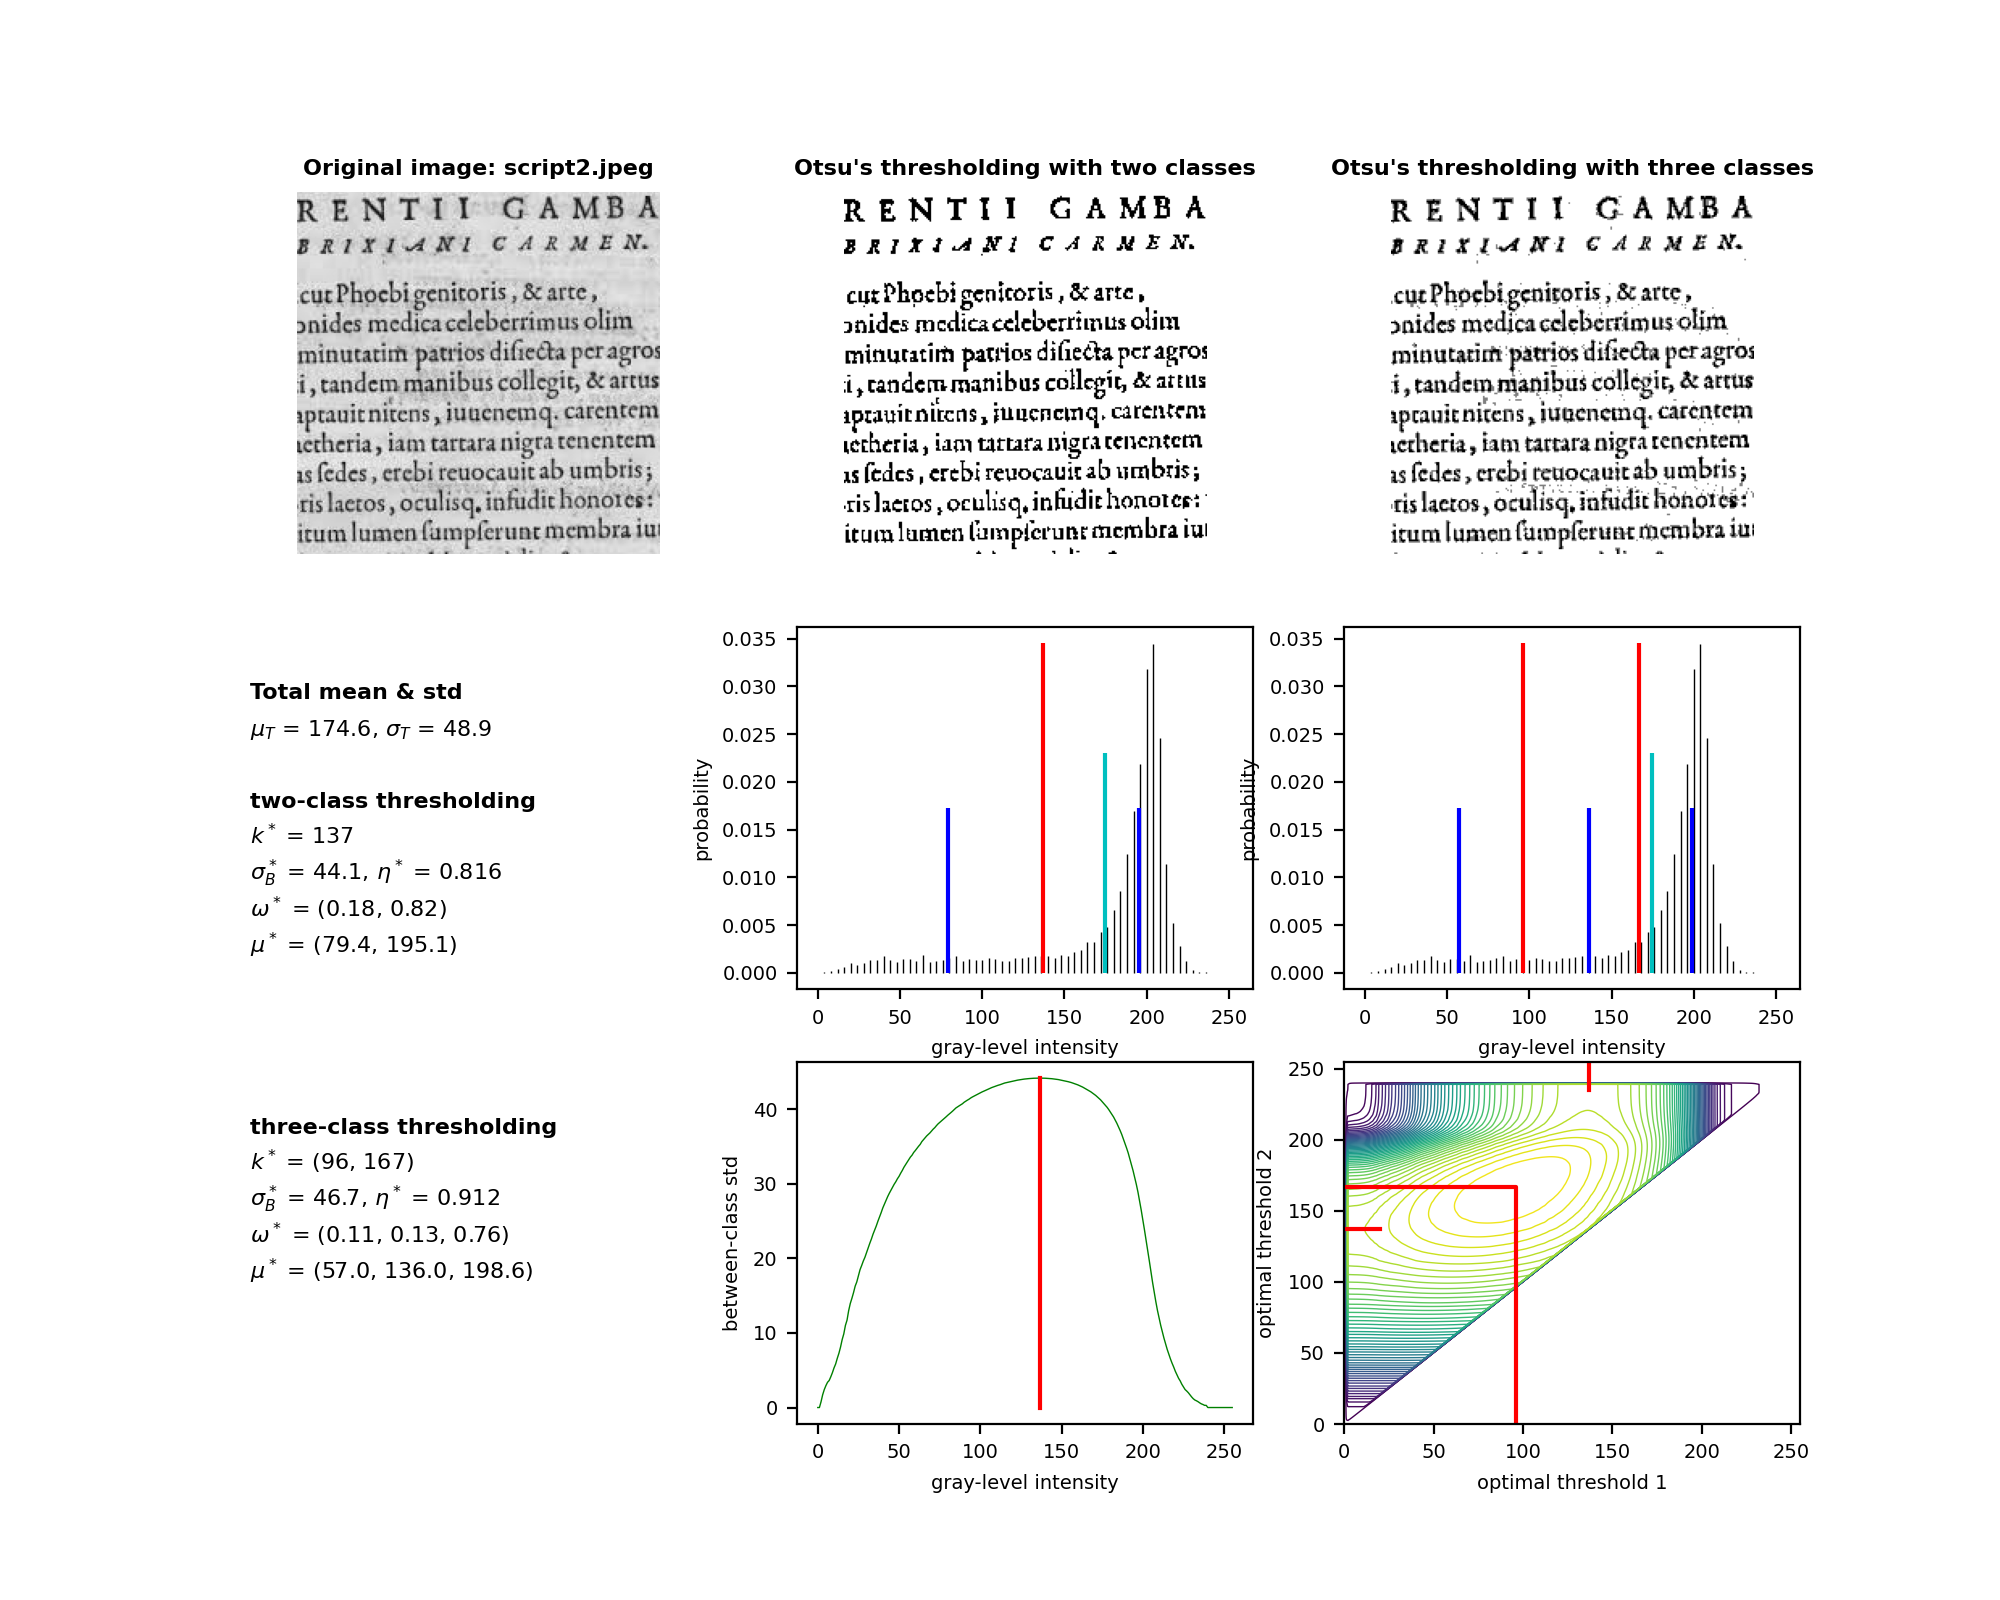
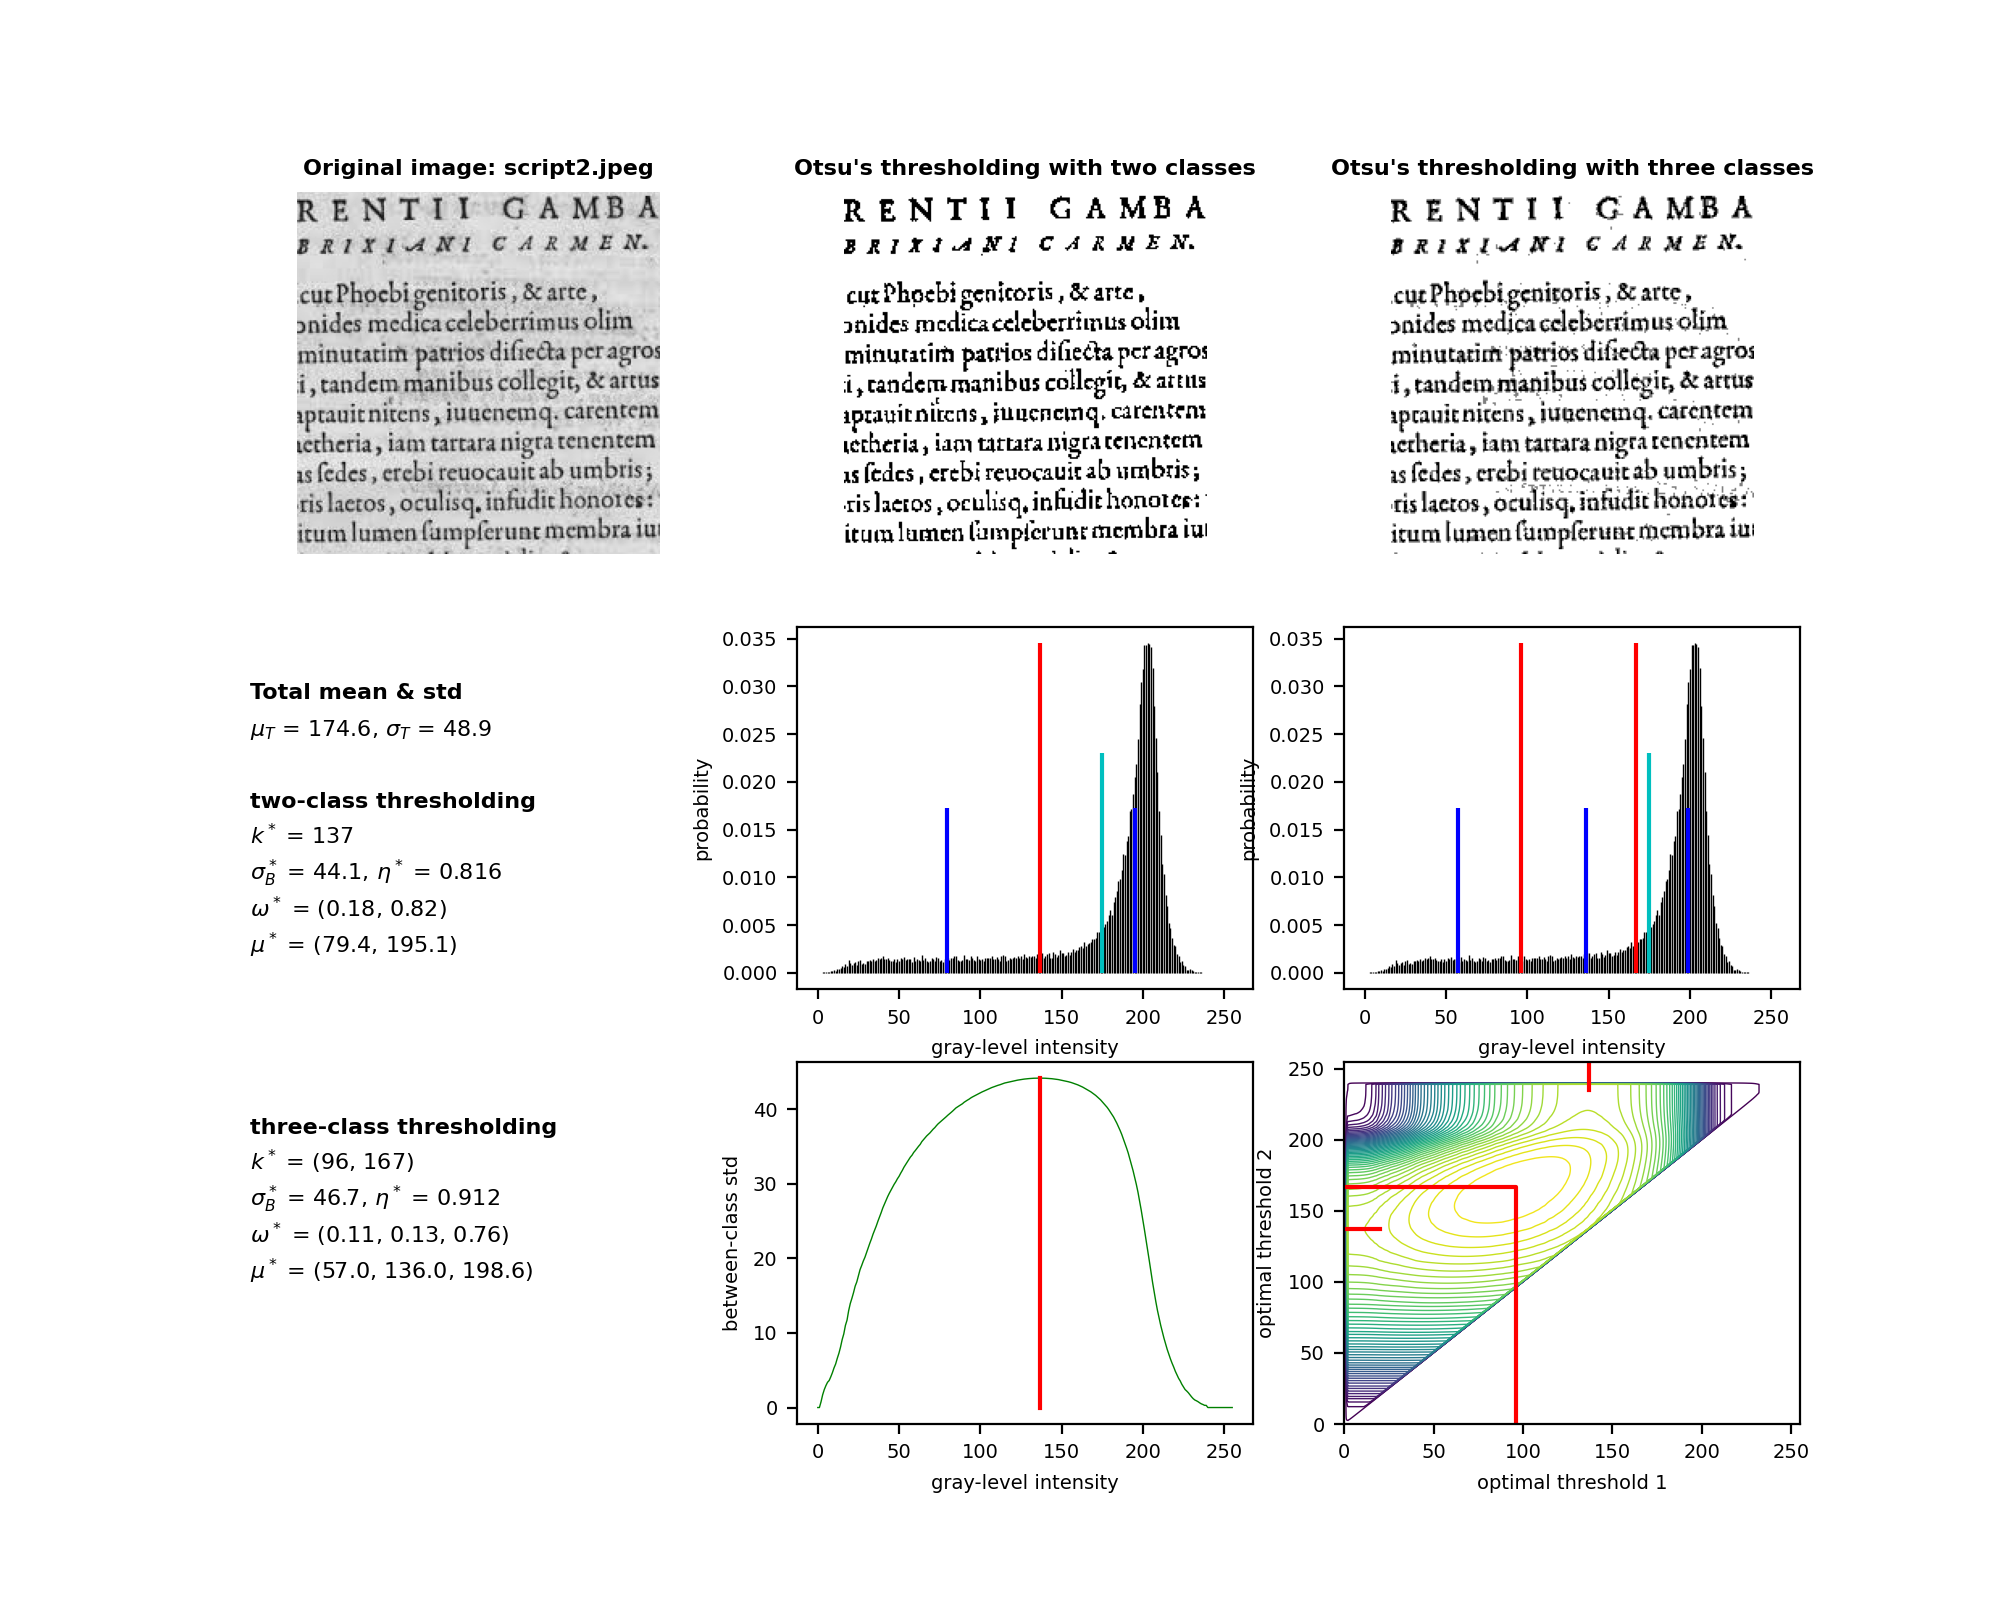
This will be submitted

Changed region(s): [[0.682, 0.4062, 0.899, 0.6562], [0.403, 0.4062, 0.589, 0.6562]]

diff --git a/main.py b/main.py
@@ -12,28 +12,16 @@ IMAX = np.uint8(L - 1) # white
 # image filenames
 filenames = [
     'Fig2.07(a).jpg',
-    'A_1.png',
-    'A_2.png',
-    'mesh.png',
-    'honeywell.png',
-    'stain_1.png',
-    'stain_2.png',
-    'script1.jpeg',
+    # 'script1.jpeg',
     'script2.jpeg',
     'Fig2.08(a).jpg',
     'Fig2.08(b).jpg',
     'Fig2.08(c).jpg',
     'Fig2.19(a).jpg',
-    'Fig2.21(a).jpg',
     'Fig2.22(a).jpg',
     'Fig2.22(b).jpg',
     'Fig2.22(c).jpg',
-    # 'Fig2.24.jpg',
     'Fig5.07(a).jpg',
-    # 'Fig10.1(a).png',
-    # 'Fig10.16(a).png',
-    'Fig10.21(b).png',
-    # 'Fig10.26(a).png',
     'Fig10.36(a).png',
     'Fig10.36(b).png',
     'Fig10.36(c).png',
@@ -41,12 +29,14 @@ filenames = [
     # 'Fig10.37(b).png',
     'Fig10.37(c).png',
     'Fig10.38(a).png',
-    # 'Fig10.39(a).png',
     'Fig10.43(a).png',
     'Fig10.45(a).png',
     'Fig10.49(a).png',
     'Fig10.50(a).png',
 ]
+
+# delta x for pdf
+d = 1
 
 # create a ImgProcLib object
 ipl = ImgProcLib(show=False, verbose=False)
@@ -75,7 +65,7 @@ for filename in filenames:
     ax2.set_axis_off()
 
     # show the histogram and class means
-    ax5.vlines(range(0, L, 4), 0, p[::4], 'k', linewidth=0.5)
+    ax5.vlines(range(0, L, d), 0, p[::d], 'k', linewidth=0.5)
     # ax5.plot(w_k, 'r')
     ax5.vlines(k_opt, 0, np.max(p), 'r')
     ax5.vlines(mu_T, 0, np.max(p) * 2/3, 'c')
@@ -103,6 +93,21 @@ for filename in filenames:
     ax4.text(0, 0.1, f'$\mu^*$ = ({mu_opt[0]:.1f}, {mu_opt[1]:.1f})', fontsize=8)
     ax4.set_axis_off()
 
+    # plot for capture
+    # fig = plt.figure()
+    # ax = fig.add_subplot(111)
+    # ax.vlines(range(0, L, d), 0, p[::d], 'k', linewidth=0.5)
+    # ax.vlines(range(0, L, d), 0, p[::d]/np.max(p[::d]), 'k', linewidth=0.5)
+    # ax.vlines(range(0, L, d), 0, p[::d]/np.max(p[::d])*np.max(mu_k), 'k', linewidth=0.5)
+    # ax.plot(range(L), w_k, 'b', linewidth=1)
+    # ax.plot(range(L), mu_k, 'r', linewidth=1)
+    # ax.vlines(k_opt, 0, np.max(p), 'r')
+    # ax.vlines(mu_T, 0, np.max(p) * 2/3, 'c')
+    # ax.vlines(mu_opt, 0, np.max(p) * 1/2, 'b')
+    # ax.tick_params(axis='both', labelsize=7)
+    # ax.set_xlabel('gray-level intensity', fontsize=7)
+    # ax.set_ylabel('probability', fontsize=7)
+
     # Otsu's thresholding with three classes
     g, p, w_k, mu_k, mu_T, var_B, var_T, k_opt, var_B_opt, eta_opt, w_opt, mu_opt = ipl.threshold_otsu3(f)
     sigma_B = np.sqrt(var_B)
@@ -115,8 +120,7 @@ for filename in filenames:
     ax3.set_axis_off()
 
     # show the histogram and class means
-    ax6.vlines(range(0, L, 4), 0, p[::4], 'k', linewidth=0.5)
-    # ax6.plot(mu_k, 'r')
+    ax6.vlines(range(0, L, d), 0, p[::d], 'k', linewidth=0.5)
     ax6.vlines(k_opt, 0, np.max(p), 'r')
     ax6.vlines(mu_T, 0, np.max(p) * 2/3, 'c')
     ax6.vlines(mu_opt, 0, np.max(p) * 1/2, 'b')
@@ -142,7 +146,7 @@ for filename in filenames:
     ax7.text(0, 0.4, f'$\mu^*$ = ({mu_opt[0]:.1f}, {mu_opt[1]:.1f}, {mu_opt[2]:.1f})', fontsize=8)
     ax7.set_axis_off()
 
-    # thresholding using moving averages
+    # thresholding using moving averages (not finished)
     # if filename == 'Fig10.49(a).png' or filename == 'Fig10.50(a).png':
     #     g, t = ipl.threshold_moving_average(f, n=20, b=0.8)
     #     fig = plt.figure(figsize=(10/3,8/3*2))
